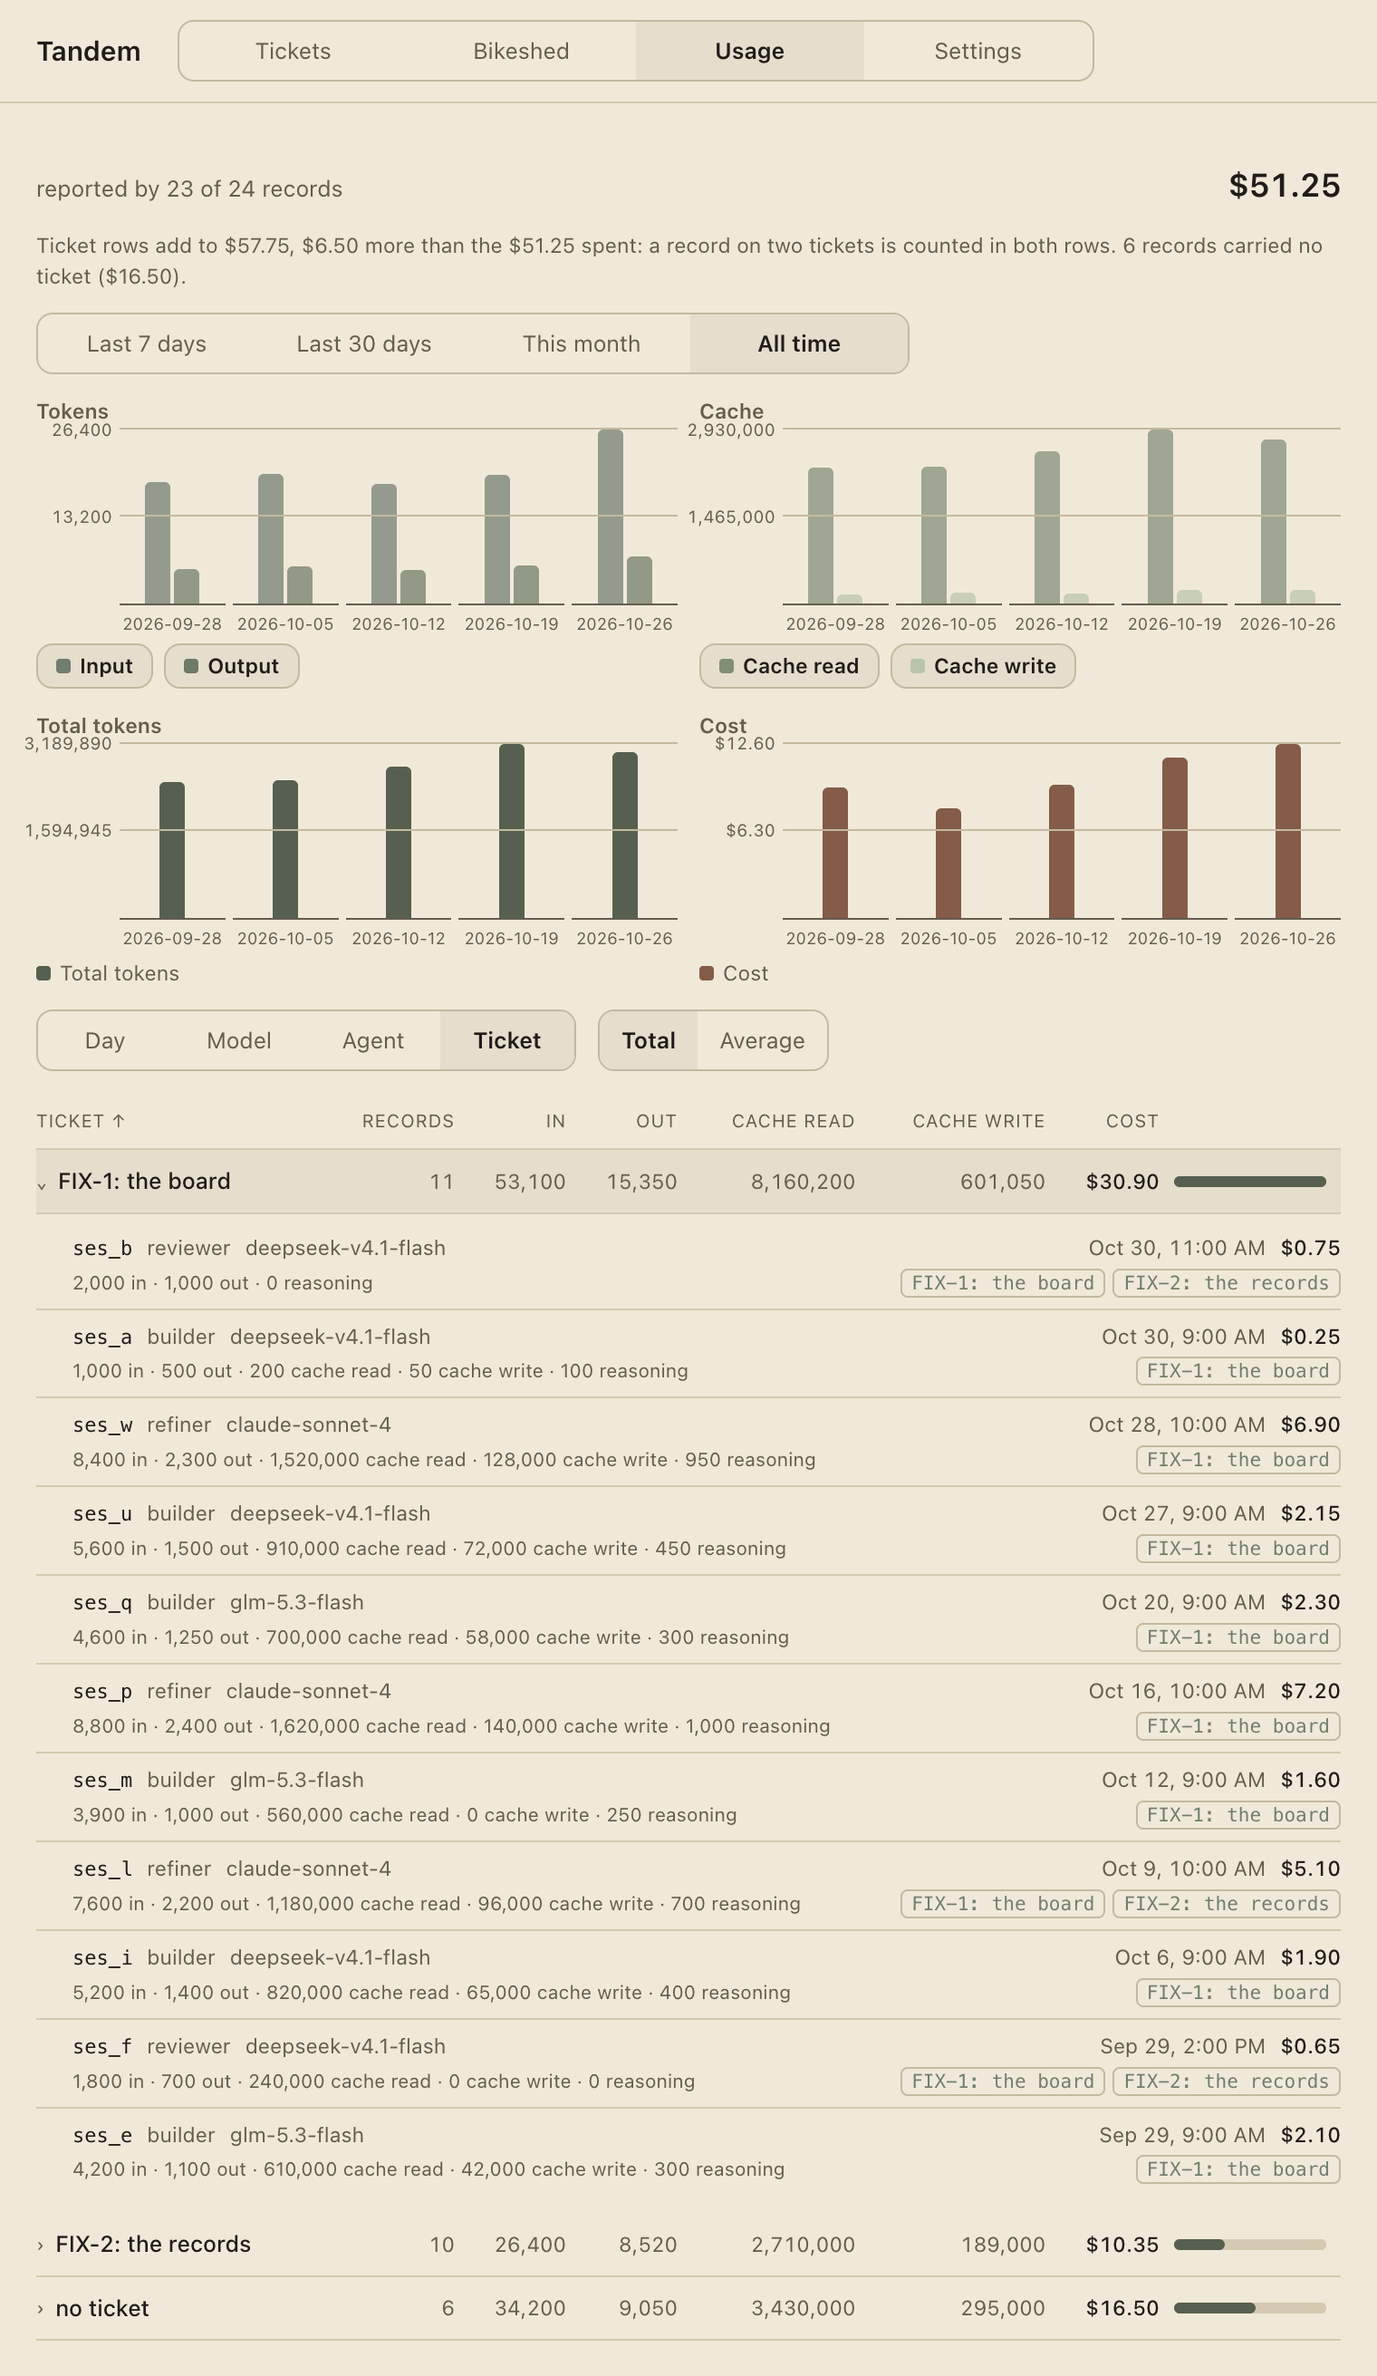
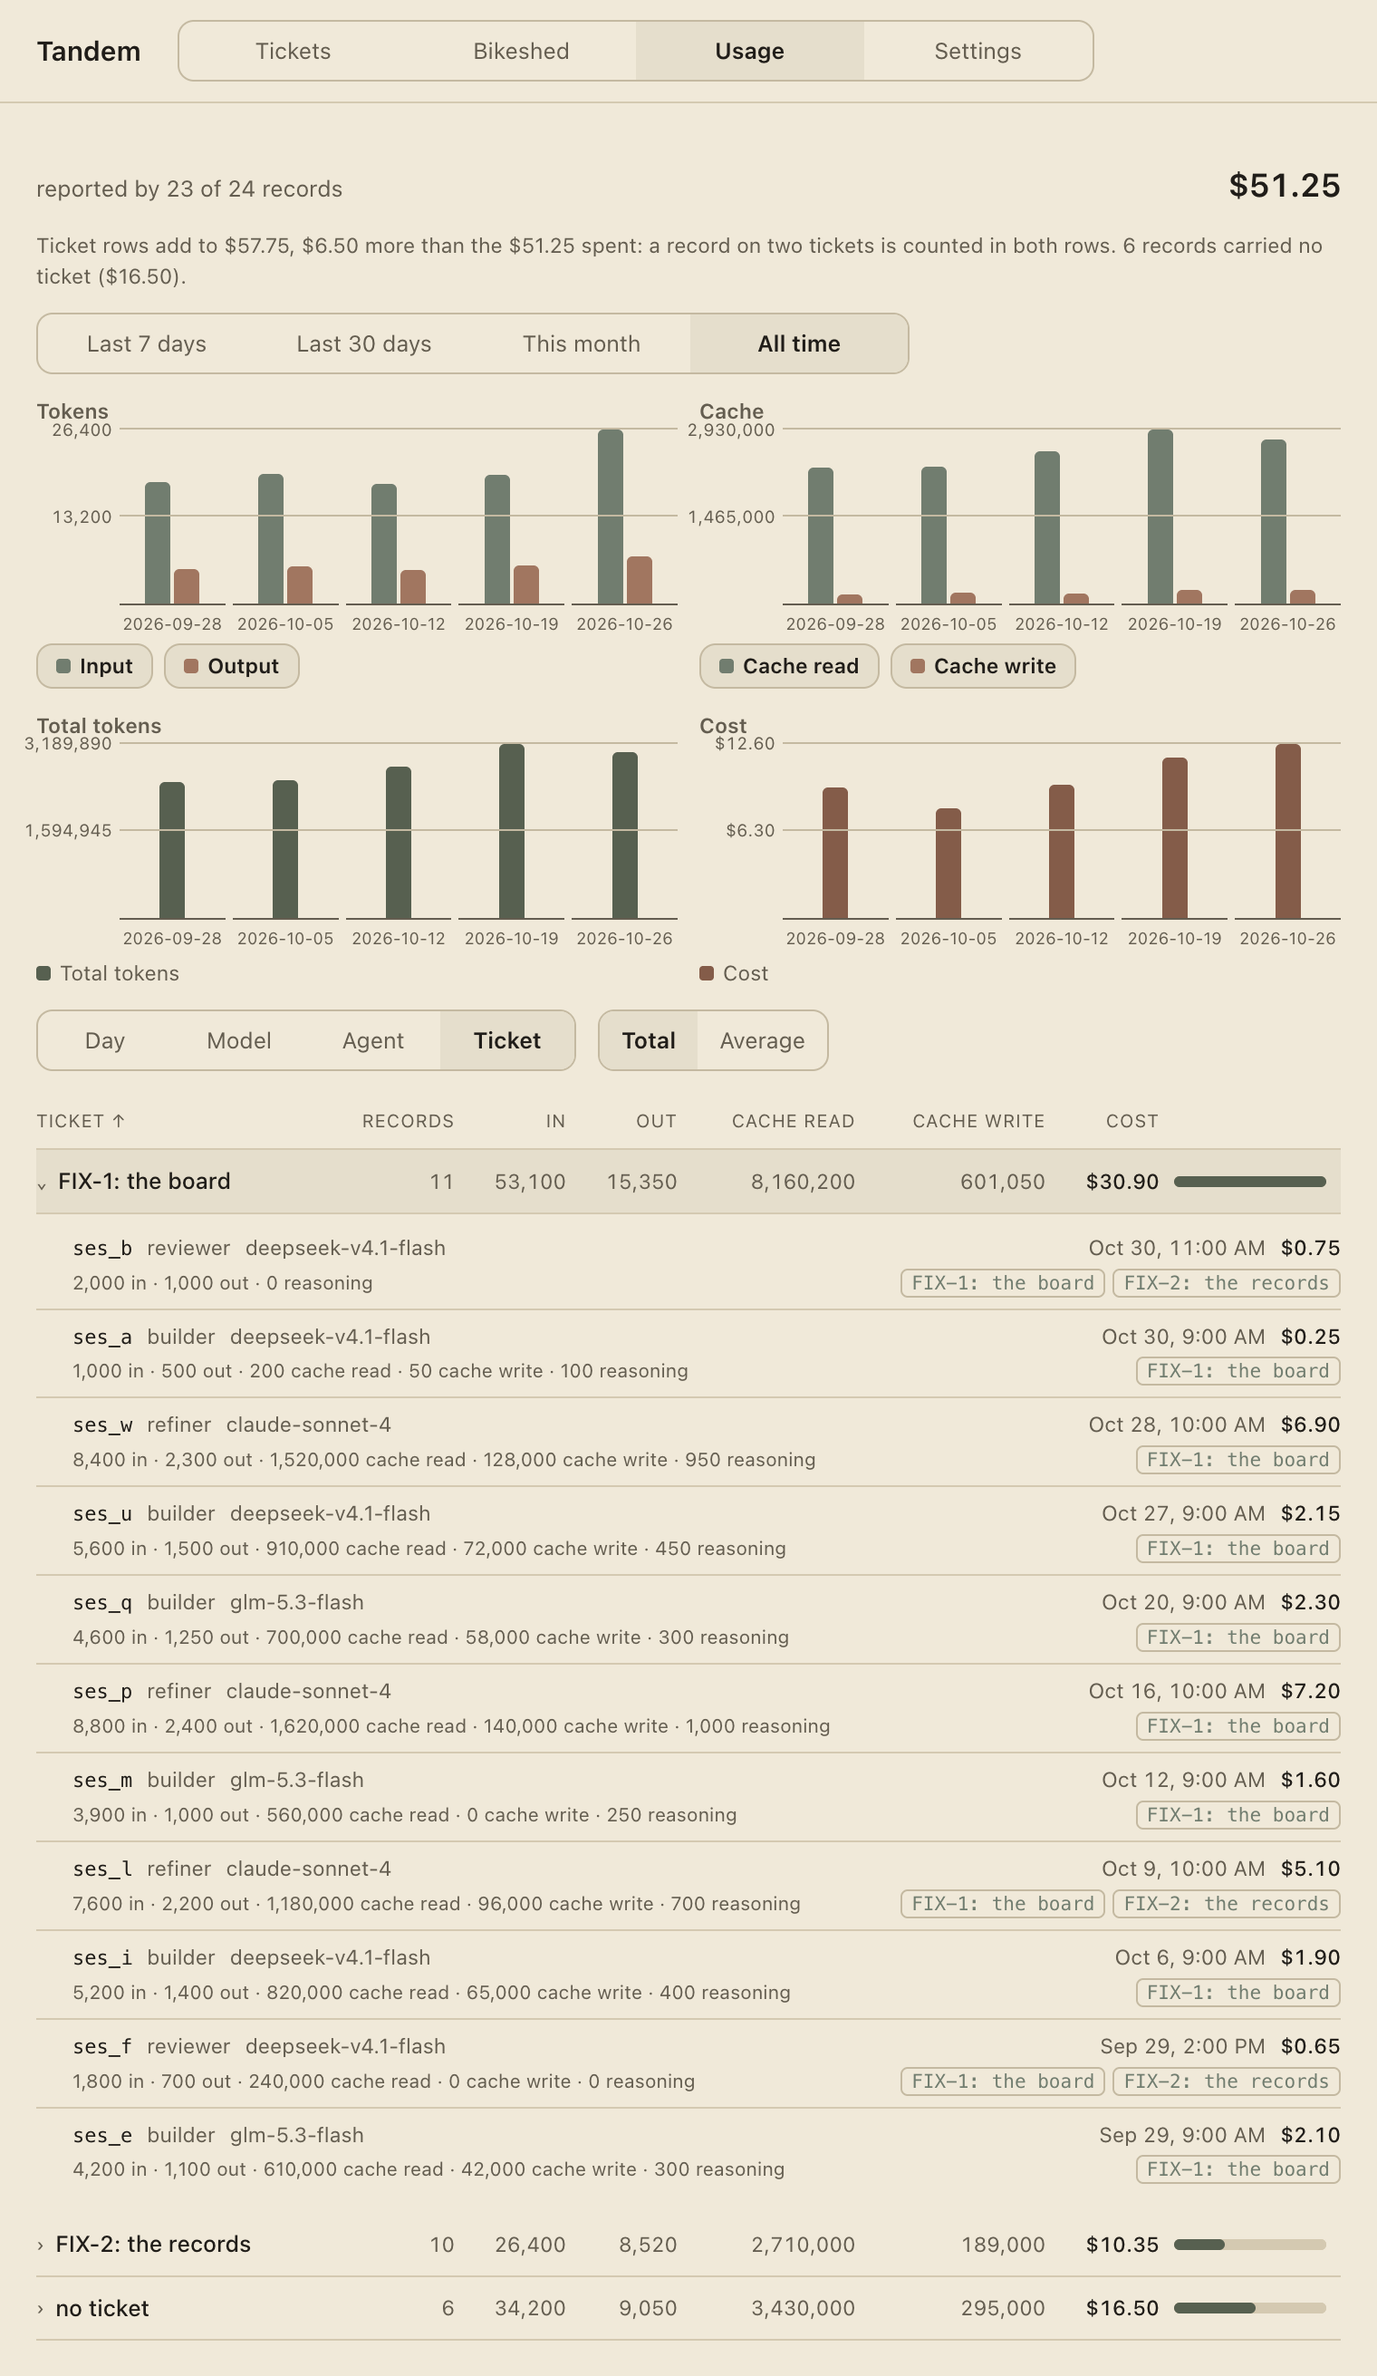
UI-12: share one colour pair across the grouped usage charts

diff --git a/app/tests/shots/usage.shots.ts b/app/tests/shots/usage.shots.ts
@@ -1,8 +1,42 @@
-import { expect } from '@playwright/test'
+import { expect, type Locator } from '@playwright/test'
 
 import { capture, openTab, test } from '../../shots/app'
 import { scene } from '../../shots/scenes'
 import { computed, token } from '../../shots/tokens'
+
+/** Each drawn bar's colour, by the series its aria label names. */
+async function barColours(chart: Locator): Promise<Record<string, string>> {
+  const bars = await chart.locator('[role="img"]').evaluateAll((elements) =>
+    elements.map((element) => {
+      const label = element.getAttribute('aria-label') ?? ''
+      return {
+        series: label.replace(/^\d{4}-\d{2}-\d{2} /, '').replace(/:.*$/, ''),
+        colour: getComputedStyle(element).backgroundColor,
+      }
+    }),
+  )
+  const colours: Record<string, string> = {}
+  for (const bar of bars) colours[bar.series] ??= bar.colour
+  for (const bar of bars) expect(bar.colour).toBe(colours[bar.series])
+  return colours
+}
+
+/** Each legend swatch's colour, by the series its text names. */
+async function swatchColours(chart: Locator): Promise<Record<string, string>> {
+  const swatches = await chart.locator('.usage__legend-item, .usage__series-option').evaluateAll(
+    (elements) =>
+      elements.map((element) => {
+        const swatch = element.querySelector('.usage__swatch')
+        return {
+          series: element.textContent?.trim() ?? '',
+          colour: swatch === null ? '' : getComputedStyle(swatch).backgroundColor,
+        }
+      }),
+  )
+  const colours: Record<string, string> = {}
+  for (const swatch of swatches) colours[swatch.series] = swatch.colour
+  return colours
+}
 
 /**
  * The Usage face a human reads: the windowed spend the records reported, the
@@ -93,6 +127,31 @@ test('the usage face, with a ticket row rolled down', async ({ app, window }) =>
   await expect(totalChart.locator('.usage__legend-items')).toHaveText('Total tokens')
   await expect(costChart.locator('.usage__swatch')).toHaveCount(1)
   await expect(costChart.locator('.usage__legend-items')).toHaveText('Cost')
+
+  // The legend draws exactly the colour its bars do, and the two grouped charts
+  // share one pair: the first piece of each group reads one colour and the
+  // second another, the same assignment in both charts.
+  const tokenBars = await barColours(tokenChart)
+  const cacheBars = await barColours(cacheChart)
+  const totalBars = await barColours(totalChart)
+  const costBars = await barColours(costChart)
+  const tokenSwatches = await swatchColours(tokenChart)
+  const cacheSwatches = await swatchColours(cacheChart)
+  const totalSwatches = await swatchColours(totalChart)
+  const costSwatches = await swatchColours(costChart)
+  expect(tokenSwatches.Input).toBe(tokenBars.Input)
+  expect(tokenSwatches.Output).toBe(tokenBars.Output)
+  expect(cacheSwatches['Cache read']).toBe(cacheBars['Cache read'])
+  expect(cacheSwatches['Cache write']).toBe(cacheBars['Cache write'])
+  expect(totalSwatches['Total tokens']).toBe(totalBars['Total tokens'])
+  expect(costSwatches.Cost).toBe(costBars.Cost)
+  expect(tokenBars.Input).toBe(cacheBars['Cache read'])
+  expect(tokenBars.Output).toBe(cacheBars['Cache write'])
+  expect(tokenBars.Input).not.toBe(tokenBars.Output)
+  expect(tokenBars.Input).toBe(token('accent'))
+  expect(tokenBars.Output).toBe(token('ember'))
+  expect(totalBars['Total tokens']).toBe(token('accent-deep'))
+  expect(costBars.Cost).toBe(token('ember-deep'))
 
   // Every column owns one bar group: the grouped charts draw one to two bars
   // per group, the single-series charts exactly one. Nothing stacks.

diff --git a/app/renderer/src/app.css b/app/renderer/src/app.css
@@ -247,44 +247,30 @@ body {
   height: 100%;
 }
 
+/* The usage charts' series colours live here, one property per slot: the two
+ * grouped charts share a pair (the first piece reads primary, the second
+ * secondary), and the single-series charts keep a property of their own. Every
+ * value is a tokens.css token; the night block brightens only the two solid
+ * bars, and the pair's tokens already flip with the scheme. */
+.usage {
+  --usage-series-primary: var(--accent);
+  --usage-series-secondary: var(--ember);
+  --usage-series-total: var(--accent-deep);
+  --usage-series-cost: var(--ember-deep);
+}
+
 .usage__bar {
   flex: 1 1 0;
   min-width: 0;
   max-width: 14px;
   border-radius: 3px 3px 0 0;
-  background: var(--accent-deep);
-}
-
-/* The token pieces are translucent fills over their series token; the total
- * bar and the single-series charts stay solid. */
-.usage__bar--totalTokens {
-  background: var(--accent-deep);
-}
-
-.usage__bar--input {
-  background: color-mix(in srgb, var(--accent) 72%, transparent);
-}
-
-.usage__bar--output {
-  background: color-mix(in srgb, var(--moss) 72%, transparent);
-}
-
-.usage__bar--cacheRead {
-  background: color-mix(in srgb, var(--moss-deep) 72%, transparent);
-}
-
-.usage__bar--cacheWrite {
-  background: color-mix(in srgb, var(--hill) 72%, transparent);
-}
-
-.usage__bar--cost {
-  background: var(--ember-deep);
+  background: var(--usage-series-primary);
 }
 
 @media (prefers-color-scheme: dark) {
-  .usage__bar,
-  .usage__bar--totalTokens {
-    background: var(--accent);
+  .usage {
+    --usage-series-total: var(--accent);
+    --usage-series-cost: var(--ember);
   }
 }
 
@@ -316,31 +302,7 @@ body {
   height: 8px;
   flex: none;
   border-radius: 2px;
-  background: var(--accent-deep);
-}
-
-.usage__swatch--totalTokens {
-  background: var(--accent-deep);
-}
-
-.usage__swatch--input {
-  background: var(--accent);
-}
-
-.usage__swatch--output {
-  background: var(--moss);
-}
-
-.usage__swatch--cacheRead {
-  background: var(--moss-deep);
-}
-
-.usage__swatch--cacheWrite {
-  background: var(--hill);
-}
-
-.usage__swatch--cost {
-  background: var(--ember-deep);
+  background: var(--usage-series-primary);
 }
 
 .usage__series-option {

diff --git a/app/tests/usage.test.ts b/app/tests/usage.test.ts
@@ -26,6 +26,7 @@ import {
   DEFAULT_CACHE_SERIES,
   DEFAULT_TOKEN_SERIES,
   TOKEN_PIECES,
+  seriesColour,
   seriesLabel,
   seriesValue,
   totalTokens,
@@ -515,6 +516,25 @@ describe('the usage face over one report', () => {
     expect(cache.columns[0]?.bars.map((bar) => bar.value)).toEqual([1_200_000, 300_000])
     expect(cache.columns[0]?.bars.map((bar) => bar.heightPercent)).toEqual([100, 25])
     expect(cache.columns[1]?.bars[0]?.heightPercent).toBe(66.66666666666666)
+
+    // The two grouped charts share one colour pair: the first piece of each
+    // group reads one colour and the second another, so Input and Cache read
+    // draw alike and Output and Cache write draw alike across the charts.
+    expect(tokens.columns[0]?.bars.map((bar) => seriesColour(bar.series))).toEqual([
+      seriesColour('input'),
+      seriesColour('output'),
+    ])
+    expect(cache.columns[0]?.bars.map((bar) => seriesColour(bar.series))).toEqual([
+      seriesColour('cacheRead'),
+      seriesColour('cacheWrite'),
+    ])
+    expect(seriesColour('input')).toBe(seriesColour('cacheRead'))
+    expect(seriesColour('output')).toBe(seriesColour('cacheWrite'))
+    expect(seriesColour('input')).not.toBe(seriesColour('output'))
+    // The single-series charts carry their own colour, distinct from each other.
+    expect(seriesColour('totalTokens')).not.toBe(seriesColour('cost'))
+    expect(seriesColour('totalTokens')).not.toBe(seriesColour('input'))
+    expect(seriesColour('cost')).not.toBe(seriesColour('output'))
   })
 
   it('draws one grouped bar per series with a value, none for an absent value, and a zero height for a reported zero', () => {

diff --git a/app/shots/scenes.ts b/app/shots/scenes.ts
@@ -27,7 +27,7 @@ export const SCENES: readonly Scene[] = [
     id: 'usage',
     file: 'usage-face.png',
     description:
-      'the **Usage** face over the fixture home: five weeks of reported spend and its coverage, four charts each against its own scale and with a swatched legend (Tokens grouping input and output as two bars per column, Cache grouping cache read and cache write, Total tokens on its own, and Cost), Half and Max gridline ticks naming each scale, All time read as Monday-started weekly columns, the ticket rows and their arithmetic, the Day/Model/Agent/Ticket picker beside the Total/Average per-record toggle, and a ticket row rolled down to the records behind it, each naming its session, agent, model, local start, cost, tokens and the tickets it carried',
+      'the **Usage** face over the fixture home: five weeks of reported spend and its coverage, four charts each against its own scale and with a swatched legend that draws each bar\'s exact colour (Tokens grouping input and output as two bars per column, Cache grouping cache read and cache write, the two grouped charts sharing one colour pair, Total tokens on its own, and Cost), Half and Max gridline ticks naming each scale, All time read as Monday-started weekly columns, the ticket rows and their arithmetic, the Day/Model/Agent/Ticket picker beside the Total/Average per-record toggle, and a ticket row rolled down to the records behind it, each naming its session, agent, model, local start, cost, tokens and the tickets it carried',
   },
   {
     id: 'bikeshed',

diff --git a/app/renderer/src/faces/UsageFace.tsx b/app/renderer/src/faces/UsageFace.tsx
@@ -24,6 +24,7 @@ import {
   recordNoun,
   rowCells,
   selectedRow,
+  seriesColour,
   seriesLabel,
   sortRows,
   startedAt,
@@ -366,6 +367,7 @@ function SeriesPicker({
             {on ? (
               <span
                 className={`usage__swatch usage__swatch--${candidate}`}
+                style={{ background: `var(--usage-series-${seriesColour(candidate)})` }}
                 aria-hidden="true"
               />
             ) : null}
@@ -382,7 +384,11 @@ function SingleLegend({ series }: { series: UsageSeries }) {
   return (
     <div className="usage__legend-items">
       <span className="usage__legend-item">
-        <span className={`usage__swatch usage__swatch--${series}`} aria-hidden="true" />
+        <span
+          className={`usage__swatch usage__swatch--${series}`}
+          style={{ background: `var(--usage-series-${seriesColour(series)})` }}
+          aria-hidden="true"
+        />
         {seriesLabel(series)}
       </span>
     </div>
@@ -447,7 +453,10 @@ function Chart({
                           role="img"
                           aria-label={name}
                           title={name}
-                          style={{ height: `${bar.heightPercent}%` }}
+                          style={{
+                            height: `${bar.heightPercent}%`,
+                            background: `var(--usage-series-${seriesColour(bar.series)})`,
+                          }}
                         />
                       )
                     })}

diff --git a/app/renderer/src/faces/usage.ts b/app/renderer/src/faces/usage.ts
@@ -193,6 +193,29 @@ export function seriesLabel(series: UsageSeries): string {
 }
 
 /**
+ * The colour each charted series draws in: the suffix of the CSS custom
+ * property `app.css` names, read by the face as `var(--usage-series-<suffix>)`.
+ * The two grouped charts share one pair: the first piece of each group reads
+ * `primary` and the second `secondary`, so Input and Cache read draw one colour
+ * and Output and Cache write the other, in both charts. The single-series
+ * charts keep a property of their own.
+ */
+export type SeriesColour = 'primary' | 'secondary' | 'total' | 'cost'
+
+const SERIES_COLOURS: Record<UsageSeries, SeriesColour> = {
+  input: 'primary',
+  output: 'secondary',
+  cacheRead: 'primary',
+  cacheWrite: 'secondary',
+  totalTokens: 'total',
+  cost: 'cost',
+}
+
+export function seriesColour(series: UsageSeries): SeriesColour {
+  return SERIES_COLOURS[series]
+}
+
+/**
  * The four charts, split by scale: input and output share one order of
  * magnitude, cache read and write another, the token total sums both, and the
  * cost is its own unit. The records chart and the reasoning bar are gone.

diff --git a/docs/screenshots/README.md b/docs/screenshots/README.md
@@ -91,7 +91,7 @@ DOM, the same row ids and the same counts on unstyled text.
 | file | what it shows |
 | --- | --- |
 | `electron-shell.png` | the shell at its 760 pt floor: the wordmark, the four tabs (Tickets, Bikeshed, Usage, Settings), the Tickets face it opens on, and the store revision read over `rpc` |
-| `usage-face.png` | the **Usage** face over the fixture home: five weeks of reported spend and its coverage, four charts each against its own scale and with a swatched legend (Tokens grouping input and output as two bars per column, Cache grouping cache read and cache write, Total tokens on its own, and Cost), Half and Max gridline ticks naming each scale, All time read as Monday-started weekly columns, the ticket rows and their arithmetic, the Day/Model/Agent/Ticket picker beside the Total/Average per-record toggle, and a ticket row rolled down to the records behind it, each naming its session, agent, model, local start, cost, tokens and the tickets it carried |
+| `usage-face.png` | the **Usage** face over the fixture home: five weeks of reported spend and its coverage, four charts each against its own scale and with a swatched legend that draws each bar's exact colour (Tokens grouping input and output as two bars per column, Cache grouping cache read and cache write, the two grouped charts sharing one colour pair, Total tokens on its own, and Cost), Half and Max gridline ticks naming each scale, All time read as Monday-started weekly columns, the ticket rows and their arithmetic, the Day/Model/Agent/Ticket picker beside the Total/Average per-record toggle, and a ticket row rolled down to the records behind it, each naming its session, agent, model, local start, cost, tokens and the tickets it carried |
 | `bikeshed-face.png` | the **Bikeshed** face over the fixture home: the scaffold tree with its reveal control, the committed CodeMirror bundle editing the fixture project note in its own frame, the Backlinks dock naming the Index note, the Health panel reporting the daily note as an orphan, and a draft a killed save left named as a recovery |
 | `settings-face.png` | the **Settings** face over the fixture home: the home, the bikeshed, the three agent hosts, the theme rule, the bundled and installed versions, and the doctor's checks each named with its state and detail |
 | `tickets-list.png` | the **Tickets** face in its list layout over the port's 78-ticket board home (`Fixtures/port/Board`): the quick-add, the Open/Done/All scopes with their counts, the status, assignee and lane filters, the search, and the lane-grouped rows with each ticket's ref, title, status, assignee, lane and blocked mark |
